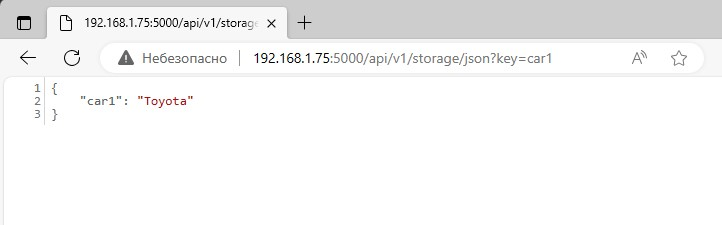
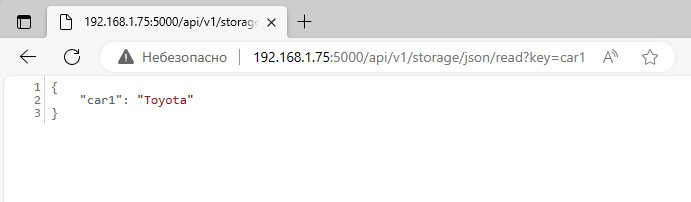
Task 1.2 completed

diff --git a/1.2/source/app.py b/1.2/source/app.py
@@ -3,7 +3,6 @@ from flask_restful import Resource, Api
 
 import json
 import os
-import tempfile
 
 app = Flask(__name__)
 api = Api(app)
@@ -19,7 +18,7 @@ if not os.path.exists(storage_path):
 
 # Class for working with storage
 class KeyValueStorage(Resource):
-    # get and write data in storage
+    # Get and write data
     def get(self):
         key = request.args.get('key')
         if key is not None:
@@ -37,9 +36,10 @@ class KeyValueStorage(Resource):
             return all_data, 200
 
     def post(self):
-        key = request.args.get('key')
-        value = request.args.get('value')
-        if key is not None and value is not None:
+        data = request.get_json()  # Get data from JSON request
+        if data is not None and 'key' in data and 'value' in data:
+            key = data['key']
+            value = data['value']
             with open(storage_path, 'r') as f:
                 storage_data = json.load(f)
             storage_data[key] = value
@@ -47,19 +47,21 @@ class KeyValueStorage(Resource):
                 json.dump(storage_data, f)
             return "Data added/updated successfully", 201
         else:
-            return "Key and value must be provided", 400
+            return "Key and value must be provided in JSON body", 400
 
 
-# Route "/"
+# Add route "/"
 @app.route('/')
 def index():
-    return "Welcome to the Key-Value Storage API. You can use the following routes:\n" \
-           "- GET /api/v1/storage/json to get all data\n" \
-           "- GET /api/v1/storage/json?key=key to get data by key\n" \
-           "- POST /api/v1/storage/json?key=key&value=value to add or update data by key\n"
+    return """Welcome to the Key-Value Storage API. You can use the following routes:
+
+- GET /api/v1/storage/json to get all data
+- GET /api/v1/storage/json?key=key to get data by key
+- POST /api/v1/storage/json to add or update data (provide JSON body with 'key' and 'value')
+"""
 
 
-# add API routes
+# Add API routes
 api.add_resource(KeyValueStorage, '/api/v1/storage/json', '/api/v1/storage/json/all', '/api/v1/storage/json/write',
                  '/api/v1/storage/json/read')
 

diff --git a/1.2/Task_1.2.md b/1.2/Task_1.2.md
@@ -1,2 +1,54 @@
 ### Задание 1.2
-* 
+* Написал сервис API, модифицировав предыдущий файл.
+* Установил на сервере `flask` и дополнительный модуль `flaskRESTful`.
+* Файл `storage.py` переименовал в [app.py](/1.2/source/app.py), чтобы не настраивать `flask`.
+* Запустил `flask` командой `flask run --host=0.0.0.0`:  
+    ![](/1.2/image/2-5.jpg)  
+* Проверяем с помощью cUrl:  
+    ![](/1.2/image/2-4.jpg)  
+* Проверяем через браузер, видим что все работает:  
+    - главная страница:  
+    ![](/1.2/image/2-1.jpg)  
+    - получаем все данные:  
+    ![](/1.2/image/2-2.jpg) 
+    - получаем элемент по ключу:  
+    ![](/1.2/image/2-3.jpg)  
+* Файлы прилагаю:
+    - [app.py](/1.2/source/app.py)
+    - [storage.data](/1.2/source/storage.data)
+* Создал из сервиса Docker контейнер:
+    ```dockerfile
+    FROM python:3.6
+    
+    WORKDIR /app
+    
+    COPY app.py .
+    COPY requirements.txt .
+    
+    RUN pip install -r requirements.txt
+    
+    EXPOSE 5000
+    
+    CMD ["flask", "run", "--host=0.0.0.0"]
+    ```
+* Выполнил сборку, запустив `docker build -t my-task-1.2 .`, лог довольно большой, привожу частично:  
+    ![](/1.2/image/2-6.jpg)  
+* Выполняем `docker image list`, видим наш контейнер:  
+    ![](/1.2/image/2-7.jpg)   
+* Запускаем `docker run -d -p 5000:5000 my-task-1.2`, и проверим запустив `docker ps`:  
+    ![](/1.2/image/2-8.jpg)  
+* Как видим контейнер запущен. Проверяем через cUrl:  
+    ![](/1.2/image/2-9.jpg)  
+* Проверяем через web:  
+    - получаем все данные:  
+    ![](/1.2/image/2-11.jpg)  
+    - получаем данные по ключу:  
+    ![](/1.2/image/2-10.jpg)  
+* Заходим в контейнер, выполнив `docker exec -it 04be6364afe7 sh` (заранее посмотрев ID контейнера), и посмотрим содержимое файла `storage.data`:  
+    ![](/1.2/image/2-12.jpg) 
+* Как видим файл создался, данные находятся в нем. При перезапуске они не сохранятся.
+* Файлы прилагаю:
+    - [app.py](/1.2/source/app.py)
+    - [storage.data](/1.2/source/storage.data)
+    - [Dockerfile](/1.2/source/Dockerfile)
+    - [requirements.txt](/1.2/source/requirements.txt)
